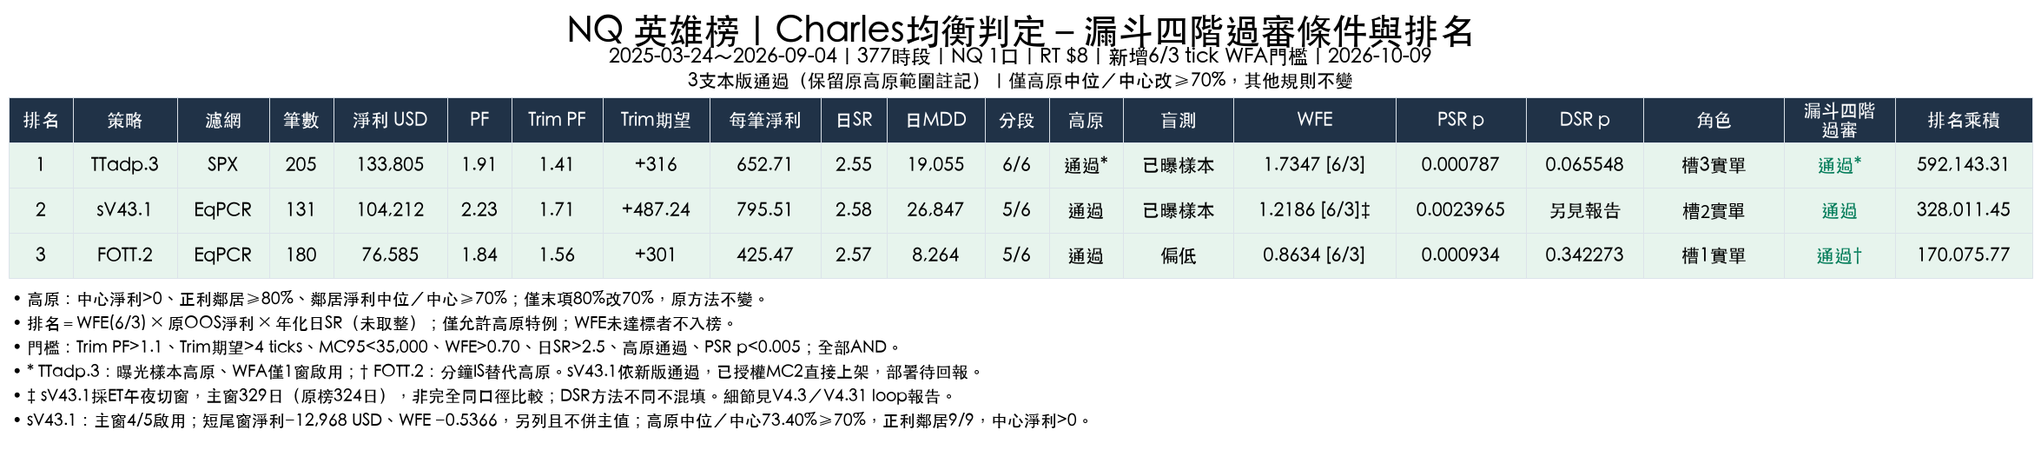
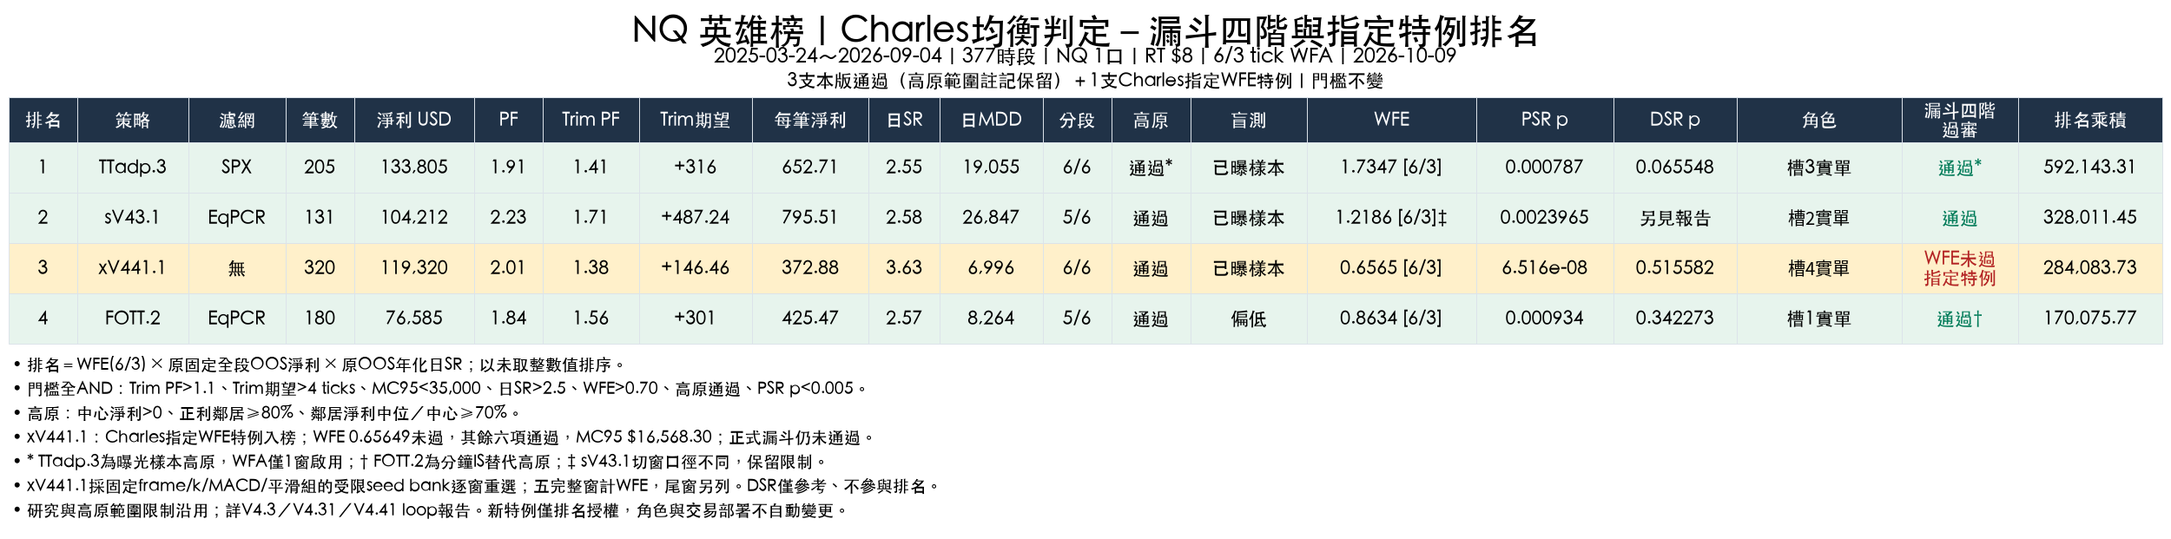
update 2026-10-09_1154

diff --git a/index.html b/index.html
@@ -1,19 +1,20 @@
 <!doctype html><html lang="zh-Hant"><head><meta charset="utf-8"><meta name="robots" content="noindex,nofollow"><meta name="viewport" content="width=device-width,initial-scale=1"><title>二部門盤後儀表板</title>
 <style>body{font-family:-apple-system,"Noto Sans TC",sans-serif;margin:12px;background:#0f1115;color:#e6e6e6}h1{font-size:18px}h2{font-size:15px;margin-top:22px}table{border-collapse:collapse;font-size:13px}td,th{border:1px solid #333;padding:4px 6px;text-align:center}th{background:#1c1f26}.l{font-size:20px}.pos{color:#5fd07a}.neg{color:#ff6b6b}.note{font-size:12px;color:#999}.wrap{overflow-x:auto}</style></head><body>
-<h1>二部門盤後儀表板</h1><div class="note">更新 2026-10-09 06:49 台北｜只顯示、不自動動作｜交易日以 ET 18:00 切換</div><div class="note" style="margin:6px 0 10px"><a href="index.html" style="color:#4ea1ff">盤後儀表板</a>｜<a href="v33_top3.html" style="color:#4ea1ff">NQ 英雄榜</a></div>
-<style>.ovwrap{max-width:780px}.ovscroll{overflow-x:auto;-webkit-overflow-scrolling:touch;margin:4px 0 10px;border:1px solid #2a2f3a;border-radius:8px;background:#161a21}.ovtbl{border-collapse:collapse;width:100%;min-width:520px;font-size:13px}.ovtbl.ovwide{min-width:420px}.ovtbl.ovwide th:first-child,.ovtbl.ovwide td:first-child{position:sticky;left:0;background:#161a21;z-index:1}.ovtbl.ovwide thead th:first-child{z-index:2;background:#12151a}.ovtbl th,.ovtbl td{padding:6px 8px;border-bottom:1px solid #2a2f3a;vertical-align:top;text-align:left}.ovtbl th{color:#aaa;font-weight:600;white-space:nowrap;background:#12151a;position:sticky;top:0}.ovtbl td.num{text-align:right;white-space:nowrap;font-variant-numeric:tabular-nums}.ovtbl tr:last-child td{border-bottom:none}.ovm{color:#999;font-size:12px}.ovw{color:#e0a030;font-size:14px}.ovhold{color:#e0a030;font-size:12px;font-weight:600;margin:2px 0;border-left:3px solid #e0a030;padding-left:6px}@media(max-width:420px){.ovtbl{font-size:12px;min-width:480px}.ovtbl th,.ovtbl td{padding:5px 6px}}</style><div class="ovwrap"><h2>總覽 <span class="note">交易日 10-08（ET 18:00 切換）｜USD</span></h2><div style="border:1px solid #2a2f3a;border-radius:8px;padding:6px 10px;margin:4px 0 8px;background:#161a21"><div style="font-size:14px;">三支實單合計持倉上限 2 口：今日（10-09）最大 0 口</div><div class="note">擋單由 MC2 負責；此處只是盤後依成交檔核對（各實單策略依進出場時間與口數各自累計持倉後加總）。上限 2 口為三支實單共用（策略1 FOTT.2、策略2 sV43.1、策略3 TTadp.3；Charles 10/09 01:36 加 sV43.1）；換手前未平的已停用實單部位也計入。</div></div><div class="note">實單（門檻 2,000 ms）</div><div class="ovscroll"><table class="ovtbl ovwide"><tr><th>指標</th><th><b>策略1</b><div>FOTT.2</div><div class="ovm">實單</div></th><th><b>策略2</b><div>sV43.1</div><div class="ovm">實單</div></th><th><b>策略3</b><div>TTadp.3</div><div class="ovm">實單</div></th></tr><tr><th>燈</th><td>⚪</td><td title="無回測基準⚪">⚪</td><td>⚪</td></tr><tr><th>今日</th><td>—</td><td class="num"><span class="pos">+1,412</span></td><td>—</td></tr><tr><th>累計</th><td>—</td><td class="num"><span class="pos">+1,412</span></td><td>—</td></tr><tr><th>筆數</th><td>—</td><td class="num">1</td><td>—</td></tr><tr><th>勝率</th><td>—</td><td class="num">100.0%<div class="ovm">回測 —</div></td><td>—</td></tr><tr><th>滑點</th><td>—</td><td class="num"><span class="pos">+80</span></td><td>—</td></tr><tr><th>s2o 最新/均</th><td>—</td><td class="num">966 / 874 ms</td><td>—</td></tr><tr><th>o2f 最新/均</th><td>—</td><td class="num">604 / 667 ms</td><td>—</td></tr></table></div><div class="note">紙單</div><div class="ovscroll"><table class="ovtbl ovwide"><tr><th>指標</th><th><b>p策略2</b><div>SecBtoB.8adp</div><div class="ovm">紙單</div></th></tr><tr><th>燈</th><td title="無回測基準⚪">⚪</td></tr><tr><th>今日</th><td class="num"><span class="neg">-3,508</span></td></tr><tr><th>累計</th><td class="num"><span class="neg">-1,494</span></td></tr><tr><th>筆數</th><td class="num">13</td></tr><tr><th>勝率</th><td class="num">46.2%<div class="ovm">回測 —</div></td></tr><tr><th>與回測比</th><td class="num">—</td></tr></table></div><div class="note">勝率＝獲利筆數／平倉筆數；回測勝率與「與回測比」（實際每筆均損益 ÷ 回測每筆均損益）的回測值於建置時由 baseline/ 逐筆 OOS 計算（無逐筆檔則勝率 —）；未滿 30 筆為小樣本。滑點＝slippage_ticks×$5 加總，正值＝不利。s2o 門檻 2,000 ms。紙單無延遲欄。<a href="daily_summary.csv" style="color:#4ea1ff">每日彙總 CSV</a>（每日×策略：筆數、勝筆、淨損益、累計）。</div></div>
+<h1>二部門盤後儀表板</h1><div class="note">更新 2026-10-09 11:54 台北｜只顯示、不自動動作｜交易日以 ET 18:00 切換</div><div class="note" style="margin:6px 0 10px"><a href="index.html" style="color:#4ea1ff">盤後儀表板</a>｜<a href="v33_top3.html" style="color:#4ea1ff">NQ 英雄榜</a></div>
+<style>.ovwrap{max-width:780px}.ovscroll{overflow-x:auto;-webkit-overflow-scrolling:touch;margin:4px 0 10px;border:1px solid #2a2f3a;border-radius:8px;background:#161a21}.ovtbl{border-collapse:collapse;width:100%;min-width:520px;font-size:13px}.ovtbl.ovwide{min-width:420px}.ovtbl.ovwide th:first-child,.ovtbl.ovwide td:first-child{position:sticky;left:0;background:#161a21;z-index:1}.ovtbl.ovwide thead th:first-child{z-index:2;background:#12151a}.ovtbl th,.ovtbl td{padding:6px 8px;border-bottom:1px solid #2a2f3a;vertical-align:top;text-align:left}.ovtbl th{color:#aaa;font-weight:600;white-space:nowrap;background:#12151a;position:sticky;top:0}.ovtbl td.num{text-align:right;white-space:nowrap;font-variant-numeric:tabular-nums}.ovtbl tr:last-child td{border-bottom:none}.ovm{color:#999;font-size:12px}.ovw{color:#e0a030;font-size:14px}.ovhold{color:#e0a030;font-size:12px;font-weight:600;margin:2px 0;border-left:3px solid #e0a030;padding-left:6px}@media(max-width:420px){.ovtbl{font-size:12px;min-width:480px}.ovtbl th,.ovtbl td{padding:5px 6px}}</style><div class="ovwrap"><h2>總覽 <span class="note">交易日 10-09（ET 18:00 切換）｜USD</span></h2><div style="border:1px solid #2a2f3a;border-radius:8px;padding:6px 10px;margin:4px 0 8px;background:#161a21"><div style="font-size:14px;">四支實單合計持倉上限 2 口：今日（10-09）最大 0 口</div><div class="note">擋單由 MC2 負責；此處只是盤後依成交檔核對（各實單策略依進出場時間與口數各自累計持倉後加總）。上限 2 口為四支實單共用（策略1 FOTT.2、策略2 sV43.1、策略3 TTadp.3、策略4 xV441.1；Charles 10/09 11:53 加 xV441.1）；換手前未平的已停用實單部位也計入。</div></div><div class="note">實單（門檻 2,000 ms）</div><div class="ovscroll"><table class="ovtbl ovwide"><tr><th>指標</th><th><b>策略1</b><div>FOTT.2</div><div class="ovm">實單</div></th><th><b>策略2</b><div>sV43.1</div><div class="ovm">實單</div></th><th><b>策略3</b><div>TTadp.3</div><div class="ovm">實單</div></th><th><b>策略4</b><div>xV441.1</div><div class="ovm">實單</div></th></tr><tr><th>燈</th><td>⚪</td><td title="無回測基準⚪">⚪</td><td>⚪</td><td>⚪</td></tr><tr><th>今日</th><td>—</td><td class="num"><span class="pos">+0</span></td><td>—</td><td>—</td></tr><tr><th>累計</th><td>—</td><td class="num"><span class="pos">+1,412</span></td><td>—</td><td>—</td></tr><tr><th>筆數</th><td>—</td><td class="num">1</td><td>—</td><td>—</td></tr><tr><th>勝率</th><td>—</td><td class="num">100.0%<div class="ovm">回測 —</div></td><td>—</td><td>—</td></tr><tr><th>滑點</th><td>—</td><td class="num"><span class="pos">+80</span></td><td>—</td><td>—</td></tr><tr><th>s2o 最新/均</th><td>—</td><td class="num">966 / 874 ms</td><td>—</td><td>—</td></tr><tr><th>o2f 最新/均</th><td>—</td><td class="num">604 / 667 ms</td><td>—</td><td>—</td></tr></table></div><div class="note">紙單</div><div class="ovscroll"><table class="ovtbl ovwide"><tr><th>指標</th><th><b>p策略2</b><div>SecBtoB.8adp</div><div class="ovm">紙單</div></th></tr><tr><th>燈</th><td title="無回測基準⚪">⚪</td></tr><tr><th>今日</th><td class="num"><span class="neg">-734</span></td></tr><tr><th>累計</th><td class="num"><span class="neg">-2,228</span></td></tr><tr><th>筆數</th><td class="num">16</td></tr><tr><th>勝率</th><td class="num">43.8%<div class="ovm">回測 —</div></td></tr><tr><th>與回測比</th><td class="num">—</td></tr></table></div><div class="note">勝率＝獲利筆數／平倉筆數；回測勝率與「與回測比」（實際每筆均損益 ÷ 回測每筆均損益）的回測值於建置時由 baseline/ 逐筆 OOS 計算（無逐筆檔則勝率 —）；未滿 30 筆為小樣本。滑點＝slippage_ticks×$5 加總，正值＝不利。s2o 門檻 2,000 ms。紙單無延遲欄。<a href="daily_summary.csv" style="color:#4ea1ff">每日彙總 CSV</a>（每日×策略：筆數、勝筆、淨損益、累計）。</div></div>
 <div class="note">上線日不固定：以 MC2 回傳該策略第一筆 webhook 資料的交易日為準，未有資料前顯示「等待首筆 webhook」。紙單損益用 sim_pnl_usd（依每列 trade_mode）。新策略下單延遲門檻 2 秒；燈號基準為 2 秒延遲版 tick OOS。已停用策略只保留歷史、不列燈號警示。</div>
-<h2>策略頻率 <span class="note">NQ 18 支候選總表＋現行實單（10/08 23:12 換手版）</span></h2><div class="wrap ft" style="overflow-x:auto"><style>.ft table{font-size:12px}.ft th,.ft td{white-space:nowrap;padding:2px 5px;line-height:1.25}</style><table><tr><th>策略／位置</th><th>回測筆</th><th>日均</th><th>週均</th><th>週期望淨利</th><th>週Trim期望</th><th>交易天</th><th>實際 vs 預期</th></tr><tr><th style="text-align:left">FOTT.2<br><span class="note" style="font-weight:400">策略1 實單</span></th><td>180</td><td>0.48</td><td>2.4</td><td>1,016</td><td>+719</td><td>116</td><td style="text-align:left">等待首筆 webhook</td></tr><tr><th style="text-align:left">sV43.1<br><span class="note" style="font-weight:400">策略2 實單</span></th><td>131</td><td>0.35</td><td>1.7</td><td>1,382</td><td>+847</td><td>—</td><td style="text-align:left">上線 2 工作日共 1 筆，折合每週 2.5（預期 1.7）；本週 1 筆</td></tr><tr><th style="text-align:left">TTadp.3<br><span class="note" style="font-weight:400">策略3 實單</span></th><td>205</td><td>0.54</td><td>2.7</td><td>1,775</td><td>+859</td><td>—</td><td style="text-align:left">等待首筆 webhook</td></tr><tr><th style="text-align:left">SecBtoB.8adp<br><span class="note" style="font-weight:400">p2 紙單</span></th><td>9,392</td><td>24.91</td><td>124.6</td><td>—</td><td>—</td><td>—</td><td style="text-align:left">上線 3 工作日共 14 筆，折合每週 23.3（預期 124.6）；本週 14 筆</td></tr><tr><th style="text-align:left">TOTT.1<br><span class="note" style="font-weight:400">下架</span></th><td>240</td><td>0.64</td><td>3.2</td><td>—</td><td>—</td><td>189</td><td style="text-align:left">已下架</td></tr><tr><th style="text-align:left">ADPTTF.3<br><span class="note" style="font-weight:400">下架</span></th><td>412</td><td>1.09</td><td>5.5</td><td>—</td><td>—</td><td>—</td><td style="text-align:left">已下架</td></tr><tr><th style="text-align:left">BigA.ADP<br><span class="note" style="font-weight:400">下架</span></th><td>4,180</td><td>11.09</td><td>55.4</td><td>—</td><td>—</td><td>—</td><td style="text-align:left">已下架</td></tr><tr><th style="text-align:left">ADPTTFH.13<br><span class="note" style="font-weight:400">下架</span></th><td>300</td><td>0.80</td><td>4.0</td><td>—</td><td>—</td><td>—</td><td style="text-align:left">已下架</td></tr><tr><th style="text-align:left">TTadp.1<br><span class="note" style="font-weight:400">下架</span></th><td>515</td><td>1.37</td><td>6.8</td><td>—</td><td>—</td><td>—</td><td style="text-align:left">已下架</td></tr></table></div>
-<div class="note">口徑：OOS 2025-03-24～2026-09-04，377 個交易日；1 筆交易＝1 次進場訊號；每日平均＝筆數 ÷ 377，每週＝每日×5。有逐筆 OOS 檔者筆數取該檔（另列有交易天數），其餘取排名圖筆數推算。目前三支實單合計約每週 6.8 筆；非每天都有交易，連幾天無訊號屬正常。「實際 vs 預期」自該策略首筆 webhook 起算。每週期望淨利＝每週平均次數 × 每筆淨利；每週 Trim 期望＝每週平均次數 × Trim 期望（每筆淨利、Trim 期望取自 NQ 18 支候選總表；只列實單 FOTT.2／sV43.1／TTadp.3，其餘為「—」；單位 USD）。</div>
+<h2>策略頻率 <span class="note">NQ 18 支候選總表＋現行實單（10/08 23:12 換手版）</span></h2><div class="wrap ft" style="overflow-x:auto"><style>.ft table{font-size:12px}.ft th,.ft td{white-space:nowrap;padding:2px 5px;line-height:1.25}</style><table><tr><th>策略／位置</th><th>回測筆</th><th>日均</th><th>週均</th><th>週期望淨利</th><th>週Trim期望</th><th>交易天</th><th>實際 vs 預期</th></tr><tr><th style="text-align:left">FOTT.2<br><span class="note" style="font-weight:400">策略1 實單</span></th><td>180</td><td>0.48</td><td>2.4</td><td>1,016</td><td>+719</td><td>116</td><td style="text-align:left">等待首筆 webhook</td></tr><tr><th style="text-align:left">sV43.1<br><span class="note" style="font-weight:400">策略2 實單</span></th><td>131</td><td>0.35</td><td>1.7</td><td>1,382</td><td>+847</td><td>—</td><td style="text-align:left">上線 2 工作日共 1 筆，折合每週 2.5（預期 1.7）；本週 1 筆</td></tr><tr><th style="text-align:left">TTadp.3<br><span class="note" style="font-weight:400">策略3 實單</span></th><td>205</td><td>0.54</td><td>2.7</td><td>1,775</td><td>+859</td><td>—</td><td style="text-align:left">等待首筆 webhook</td></tr><tr><th style="text-align:left">xV441.1<br><span class="note" style="font-weight:400">策略4 實單</span></th><td>320</td><td>0.85</td><td>4.2</td><td>1,583</td><td>+622</td><td>—</td><td style="text-align:left">等待首筆 webhook</td></tr><tr><th style="text-align:left">SecBtoB.8adp<br><span class="note" style="font-weight:400">p2 紙單</span></th><td>9,392</td><td>24.91</td><td>124.6</td><td>—</td><td>—</td><td>—</td><td style="text-align:left">上線 3 工作日共 17 筆，折合每週 28.3（預期 124.6）；本週 17 筆</td></tr><tr><th style="text-align:left">TOTT.1<br><span class="note" style="font-weight:400">下架</span></th><td>240</td><td>0.64</td><td>3.2</td><td>—</td><td>—</td><td>189</td><td style="text-align:left">已下架</td></tr><tr><th style="text-align:left">ADPTTF.3<br><span class="note" style="font-weight:400">下架</span></th><td>412</td><td>1.09</td><td>5.5</td><td>—</td><td>—</td><td>—</td><td style="text-align:left">已下架</td></tr><tr><th style="text-align:left">BigA.ADP<br><span class="note" style="font-weight:400">下架</span></th><td>4,180</td><td>11.09</td><td>55.4</td><td>—</td><td>—</td><td>—</td><td style="text-align:left">已下架</td></tr><tr><th style="text-align:left">ADPTTFH.13<br><span class="note" style="font-weight:400">下架</span></th><td>300</td><td>0.80</td><td>4.0</td><td>—</td><td>—</td><td>—</td><td style="text-align:left">已下架</td></tr><tr><th style="text-align:left">TTadp.1<br><span class="note" style="font-weight:400">下架</span></th><td>515</td><td>1.37</td><td>6.8</td><td>—</td><td>—</td><td>—</td><td style="text-align:left">已下架</td></tr></table></div>
+<div class="note">口徑：OOS 2025-03-24～2026-09-04，377 個交易日；1 筆交易＝1 次進場訊號；每日平均＝筆數 ÷ 377，每週＝每日×5。有逐筆 OOS 檔者筆數取該檔（另列有交易天數），其餘取排名圖筆數推算。目前四支實單合計約每週 11.1 筆；非每天都有交易，連幾天無訊號屬正常。「實際 vs 預期」自該策略首筆 webhook 起算。每週期望淨利＝每週平均次數 × 每筆淨利；每週 Trim 期望＝每週平均次數 × Trim 期望（每筆淨利、Trim 期望取自 NQ 18 支候選總表；只列實單 FOTT.2／sV43.1／TTadp.3／xV441.1，其餘為「—」；單位 USD）。</div>
 <style>.vt{overflow:auto;max-height:75vh;border:1px solid #333;max-width:100%}.vt table{font-size:12px}.vt th,.vt td{padding:3px 5px;white-space:nowrap}.vt thead th{position:sticky;top:0;z-index:2;background:#1c1f26;font-weight:600}.vt .dc{position:sticky;left:0;z-index:1;background:#1c1f26}.vt thead .dc{z-index:3}.vt .nt{color:#555}.l2{font-size:15px}.hold{color:#e0a030;font-size:11px}.vtr{opacity:.6}details summary{cursor:pointer;color:#aaa;font-size:13px;margin:8px 0}</style>
-<h2>每日燈號變化 <span class="note">近 9 個交易日（上限 60）・最新在上</span></h2><div class="vt"><table><thead><tr><th class="dc">交易日</th><th>實單<br>FOTT.2<div class="note">策略1</div></th><th>實單<br>sV43.1<div class="note">策略2</div></th><th>實單<br>TTadp.3<div class="note">策略3</div></th><th>紙單<br>p2 SecBtoB.8adp<div class="note">p策略2</div></th></tr></thead><tbody><tr><th class="dc">10-08<span class="note">（四）</span></th><td class="nt">·</td><td title="無回測基準⚪"><span class="l2">⚪</span><br><span class="pos">+1,412</span></td><td class="nt">·</td><td title="無回測基準⚪"><span class="l2">⚪</span><br><span class="neg">-3,508</span></td></tr><tr><th class="dc">10-07<span class="note">（三）</span></th><td class="nt">·</td><td class="nt">·</td><td class="nt">·</td><td title="無回測基準⚪"><span class="l2">⚪</span><br><span class="pos">+2,014</span></td></tr><tr><th class="dc">10-06<span class="note">（二）</span></th><td class="nt">·</td><td class="nt">·</td><td class="nt">·</td><td class="nt">·</td></tr><tr><th class="dc">10-05<span class="note">（一）</span></th><td class="nt">·</td><td class="nt">·</td><td class="nt">·</td><td class="nt">·</td></tr><tr><th class="dc">10-02<span class="note">（五）</span></th><td class="nt">·</td><td class="nt">·</td><td class="nt">·</td><td class="nt">·</td></tr><tr><th class="dc">10-01<span class="note">（四）</span></th><td class="nt">·</td><td class="nt">·</td><td class="nt">·</td><td class="nt">·</td></tr><tr><th class="dc">09-30<span class="note">（三）</span></th><td class="nt">·</td><td class="nt">·</td><td class="nt">·</td><td class="nt">·</td></tr><tr><th class="dc">09-29<span class="note">（二）</span></th><td class="nt">·</td><td class="nt">·</td><td class="nt">·</td><td class="nt">·</td></tr><tr><th class="dc">09-28<span class="note">（一）</span></th><td class="nt">·</td><td class="nt">·</td><td class="nt">·</td><td class="nt">·</td></tr></tbody></table></div>
+<h2>每日燈號變化 <span class="note">近 10 個交易日（上限 60）・最新在上</span></h2><div class="vt"><table><thead><tr><th class="dc">交易日</th><th>實單<br>FOTT.2<div class="note">策略1</div></th><th>實單<br>sV43.1<div class="note">策略2</div></th><th>實單<br>TTadp.3<div class="note">策略3</div></th><th>實單<br>xV441.1<div class="note">策略4</div></th><th>紙單<br>p2 SecBtoB.8adp<div class="note">p策略2</div></th></tr></thead><tbody><tr><th class="dc">10-09<span class="note">（五）</span></th><td class="nt">·</td><td class="nt">·</td><td class="nt">·</td><td class="nt">·</td><td title="無回測基準⚪"><span class="l2">⚪</span><br><span class="neg">-734</span></td></tr><tr><th class="dc">10-08<span class="note">（四）</span></th><td class="nt">·</td><td title="無回測基準⚪"><span class="l2">⚪</span><br><span class="pos">+1,412</span></td><td class="nt">·</td><td class="nt">·</td><td title="無回測基準⚪"><span class="l2">⚪</span><br><span class="neg">-3,508</span></td></tr><tr><th class="dc">10-07<span class="note">（三）</span></th><td class="nt">·</td><td class="nt">·</td><td class="nt">·</td><td class="nt">·</td><td title="無回測基準⚪"><span class="l2">⚪</span><br><span class="pos">+2,014</span></td></tr><tr><th class="dc">10-06<span class="note">（二）</span></th><td class="nt">·</td><td class="nt">·</td><td class="nt">·</td><td class="nt">·</td><td class="nt">·</td></tr><tr><th class="dc">10-05<span class="note">（一）</span></th><td class="nt">·</td><td class="nt">·</td><td class="nt">·</td><td class="nt">·</td><td class="nt">·</td></tr><tr><th class="dc">10-02<span class="note">（五）</span></th><td class="nt">·</td><td class="nt">·</td><td class="nt">·</td><td class="nt">·</td><td class="nt">·</td></tr><tr><th class="dc">10-01<span class="note">（四）</span></th><td class="nt">·</td><td class="nt">·</td><td class="nt">·</td><td class="nt">·</td><td class="nt">·</td></tr><tr><th class="dc">09-30<span class="note">（三）</span></th><td class="nt">·</td><td class="nt">·</td><td class="nt">·</td><td class="nt">·</td><td class="nt">·</td></tr><tr><th class="dc">09-29<span class="note">（二）</span></th><td class="nt">·</td><td class="nt">·</td><td class="nt">·</td><td class="nt">·</td><td class="nt">·</td></tr><tr><th class="dc">09-28<span class="note">（一）</span></th><td class="nt">·</td><td class="nt">·</td><td class="nt">·</td><td class="nt">·</td><td class="nt">·</td></tr></tbody></table></div>
 <div class="note">格內：燈號＋當日損益 USD；「·」＝當日無平倉。燈號取各子項最差者；對照各自 tick OOS 回測分佈（綠 ≥p10、黃 p5–p10、橘 p1–p5、紅 &lt;p1）。⚪＝樣本不足（未滿 20 日/30 趟）。K01 回測本身為負，改用「近60趟期望 &gt;0」。</div>
-<style>.lg{display:flex;flex-wrap:wrap;gap:4px 14px;font-size:12px;margin:4px 0}.lgi{white-space:normal}</style><h2>六策略累計損益 <span class="note">USD・實單與紙單分開、不加總</span></h2><h3 style="font-size:14px;margin:12px 0 4px">實單（實線）</h3><svg viewBox="0 0 640 220" style="width:100%;max-width:640px;background:#161a21;display:block" role="img" aria-label="實單（實線）"><line x1="46" x2="628" y1="185.2" y2="185.2" stroke="#555" stroke-dasharray="3"/><text x="42" y="22" fill="#888" font-size="11" text-anchor="end">1,525</text><text x="42" y="198" fill="#888" font-size="11" text-anchor="end">-113</text><text x="42" y="189" fill="#888" font-size="11" text-anchor="end">0</text><text x="337" y="214" fill="#888" font-size="11" text-anchor="middle">10-08</text><polyline fill="none" stroke="#4ea1ff" stroke-width="2.2" points="337.0,24.8"/><circle cx="337.0" cy="24.8" r="2.5" fill="#4ea1ff"/></svg><div class="lg"><span class="lgi"><svg width="22" height="8"><line x1="0" x2="22" y1="4" y2="4" stroke="#3ddbd9" stroke-width="2.5"/></svg> 實單 FOTT.2：等待首筆</span><span class="lgi"><svg width="22" height="8"><line x1="0" x2="22" y1="4" y2="4" stroke="#4ea1ff" stroke-width="2.5"/></svg> 實單 sV43.1：+1,412；無逐筆回測基準，不畫預期線</span><span class="lgi"><svg width="22" height="8"><line x1="0" x2="22" y1="4" y2="4" stroke="#e0a030" stroke-width="2.5"/></svg> 實單 TTadp.3：等待首筆</span></div><h3 style="font-size:14px;margin:12px 0 4px">紙單（虛線，模擬損益）</h3><svg viewBox="0 0 640 220" style="width:100%;max-width:640px;background:#161a21;display:block" role="img" aria-label="紙單（虛線，模擬損益）"><line x1="46" x2="628" y1="116.9" y2="116.9" stroke="#555" stroke-dasharray="3"/><text x="42" y="22" fill="#888" font-size="11" text-anchor="end">2,295</text><text x="42" y="198" fill="#888" font-size="11" text-anchor="end">-1,775</text><text x="42" y="121" fill="#888" font-size="11" text-anchor="end">0</text><text x="46" y="214" fill="#888" font-size="11">10-07</text><text x="628" y="214" fill="#888" font-size="11" text-anchor="end">10-08</text><polyline fill="none" stroke="#3ddbd9" stroke-width="2.2" stroke-dasharray="6,3" points="46.0,24.8 628.0,185.2"/><circle cx="46.0" cy="24.8" r="2.5" fill="#3ddbd9"/><circle cx="628.0" cy="185.2" r="2.5" fill="#3ddbd9"/></svg><div class="lg"><span class="lgi"><svg width="22" height="8"><line x1="0" x2="22" y1="4" y2="4" stroke="#3ddbd9" stroke-width="2.5" stroke-dasharray="5,3"/></svg> 紙單 p2 SecBtoB.8adp：-1,494；無逐筆回測基準，不畫預期線</span></div><div class="note">淡色點線＝回測預期＝回測每筆平均淨損益 × 實際累計平倉筆數（無逐筆回測基準者略過，如 sV43.1、TTadp.3、SecBtoB.8adp）。紙單「⚠待查」者績效暫不計。</div>
+<style>.lg{display:flex;flex-wrap:wrap;gap:4px 14px;font-size:12px;margin:4px 0}.lgi{white-space:normal}</style><h2>六策略累計損益 <span class="note">USD・實單與紙單分開、不加總</span></h2><h3 style="font-size:14px;margin:12px 0 4px">實單（實線）</h3><svg viewBox="0 0 640 220" style="width:100%;max-width:640px;background:#161a21;display:block" role="img" aria-label="實單（實線）"><line x1="46" x2="628" y1="185.2" y2="185.2" stroke="#555" stroke-dasharray="3"/><text x="42" y="22" fill="#888" font-size="11" text-anchor="end">1,525</text><text x="42" y="198" fill="#888" font-size="11" text-anchor="end">-113</text><text x="42" y="189" fill="#888" font-size="11" text-anchor="end">0</text><text x="46" y="214" fill="#888" font-size="11">10-08</text><text x="628" y="214" fill="#888" font-size="11" text-anchor="end">10-09</text><polyline fill="none" stroke="#4ea1ff" stroke-width="2.2" points="46.0,24.8 628.0,24.8"/><circle cx="46.0" cy="24.8" r="2.5" fill="#4ea1ff"/><circle cx="628.0" cy="24.8" r="2.5" fill="#4ea1ff"/></svg><div class="lg"><span class="lgi"><svg width="22" height="8"><line x1="0" x2="22" y1="4" y2="4" stroke="#3ddbd9" stroke-width="2.5"/></svg> 實單 FOTT.2：等待首筆</span><span class="lgi"><svg width="22" height="8"><line x1="0" x2="22" y1="4" y2="4" stroke="#4ea1ff" stroke-width="2.5"/></svg> 實單 sV43.1：+1,412；無逐筆回測基準，不畫預期線</span><span class="lgi"><svg width="22" height="8"><line x1="0" x2="22" y1="4" y2="4" stroke="#e0a030" stroke-width="2.5"/></svg> 實單 TTadp.3：等待首筆</span><span class="lgi"><svg width="22" height="8"><line x1="0" x2="22" y1="4" y2="4" stroke="#ff7eb6" stroke-width="2.5"/></svg> 實單 xV441.1：等待首筆</span></div><h3 style="font-size:14px;margin:12px 0 4px">紙單（虛線，模擬損益）</h3><svg viewBox="0 0 640 220" style="width:100%;max-width:640px;background:#161a21;display:block" role="img" aria-label="紙單（虛線，模擬損益）"><line x1="46" x2="628" y1="101.0" y2="101.0" stroke="#555" stroke-dasharray="3"/><text x="42" y="22" fill="#888" font-size="11" text-anchor="end">2,353</text><text x="42" y="198" fill="#888" font-size="11" text-anchor="end">-2,567</text><text x="42" y="105" fill="#888" font-size="11" text-anchor="end">0</text><text x="46" y="214" fill="#888" font-size="11">10-07</text><text x="628" y="214" fill="#888" font-size="11" text-anchor="end">10-09</text><polyline fill="none" stroke="#3ddbd9" stroke-width="2.2" stroke-dasharray="6,3" points="46.0,24.8 337.0,157.4 628.0,185.2"/><circle cx="46.0" cy="24.8" r="2.5" fill="#3ddbd9"/><circle cx="337.0" cy="157.4" r="2.5" fill="#3ddbd9"/><circle cx="628.0" cy="185.2" r="2.5" fill="#3ddbd9"/></svg><div class="lg"><span class="lgi"><svg width="22" height="8"><line x1="0" x2="22" y1="4" y2="4" stroke="#3ddbd9" stroke-width="2.5" stroke-dasharray="5,3"/></svg> 紙單 p2 SecBtoB.8adp：-2,228；無逐筆回測基準，不畫預期線</span></div><div class="note">淡色點線＝回測預期＝回測每筆平均淨損益 × 實際累計平倉筆數（無逐筆回測基準者略過，如 sV43.1、TTadp.3、xV441.1、SecBtoB.8adp）。紙單「⚠待查」者績效暫不計。</div>
 <h2>最新數值</h2><div class="wrap"><table><tr><th>策略</th><th>燈號</th><th>天/趟</th><th>累計淨</th><th>20日SR</th><th>60日SR</th><th>近30趟</th><th>近60趟</th><th>回撤/MC95</th><th>實/模比<br>(假設40%)</th><th>滑價/趟</th></tr>
 <tr><th>FOTT.2 <span class="ovm">實單</span></th><td colspan="10">等待首筆 webhook</td></tr>
-<tr><th>sV43.1 <span class="ovm">實單</span></th><td class="l">⚪</td><td>1/1</td><td class="pos">+1,412</td><td>— </td><td>— </td><td>— </td><td>— </td><td>0 (—)</td><td>95%</td><td>80</td></tr>
+<tr><th>sV43.1 <span class="ovm">實單</span></th><td class="l">⚪</td><td>2/1</td><td class="pos">+1,412</td><td>— </td><td>— </td><td>— </td><td>— </td><td>0 (—)</td><td>95%</td><td>80</td></tr>
 <tr><th>TTadp.3 <span class="ovm">實單</span></th><td colspan="10">等待首筆 webhook</td></tr>
-<tr><th>p策略2 SecBtoB.8adp <span class="ovm">紙單</span></th><td class="l">⚪</td><td>2/13</td><td class="neg">-1,494</td><td>— </td><td>— </td><td>— </td><td>— </td><td>3,508 (—)</td><td>—（紙單）</td><td>0</td></tr>
+<tr><th>xV441.1 <span class="ovm">實單</span></th><td colspan="10">等待首筆 webhook</td></tr>
+<tr><th>p策略2 SecBtoB.8adp <span class="ovm">紙單</span></th><td class="l">⚪</td><td>3/16</td><td class="neg">-2,228</td><td>— </td><td>— </td><td>— </td><td>— </td><td>4,242 (—)</td><td>—（紙單）</td><td>0</td></tr>
 </table></div><div class="note">回測中位參考：FOTT.2 近30趟 +176、20日SR 3.23。滑價以每筆 slippage_ticks×$5 加總，正值＝對實單不利。只列現行 3 實＋3 紙。</div>
-<h2>換手歷程</h2><div class="note">現行 4 槽置頂；其下為換手事件（新→舊）。已停用歷史列已省略。</div><div class="ovscroll" style="max-width:780px"><table class="ovtbl"><tr><th>日期</th><th>槽位</th><th>異動（從→到／現行策略）</th><th>模式</th><th>狀態／備註</th></tr><tr style="background:#1a222c"><td>—</td><td>策略1</td><td style="text-align:left">FOTT.2</td><td>實單</td><td><b style="color:#3ddbd9">現行（等待首筆 webhook）</b></td></tr><tr style="background:#1a222c"><td>—</td><td>策略2</td><td style="text-align:left">sV43.1</td><td>實單</td><td><b style="color:#3ddbd9">現行（自 10-08 起）</b></td></tr><tr style="background:#1a222c"><td>—</td><td>策略3</td><td style="text-align:left">TTadp.3</td><td>實單</td><td><b style="color:#3ddbd9">現行（等待首筆 webhook）</b></td></tr><tr style="background:#1a222c"><td>—</td><td>p策略2</td><td style="text-align:left">SecBtoB.8adp</td><td>紙單</td><td><b style="color:#3ddbd9">現行（自 10-07 起）</b></td></tr><tr><td>10-08</td><td>策略1</td><td style="text-align:left">TTadp.1 實單（10/07 起，封存）→ FOTT.2 實單（由 p3 紙單移入）</td><td>—</td><td>已生效</td></tr><tr><td>10-08</td><td>策略2</td><td style="text-align:left">ADPTTF.3 實單（10/02 起，封存）→ 空槽</td><td>實單</td><td>已生效</td></tr><tr><td>10-08</td><td>策略4</td><td style="text-align:left">TOTT.1 實單（10/07 起，封存）→ 空槽</td><td>實單</td><td>已生效</td></tr><tr><td>10-08</td><td>p策略3</td><td style="text-align:left">FOTT.2 紙單（10/05 起，封存）→ 空槽（FOTT.2 改策略1 實單）</td><td>—</td><td>已生效</td></tr><tr><td>10-08</td><td>策略2</td><td style="text-align:left">空槽 → sV43.1 實單（MC2 直接上架，10/09 01:36 台北開啟）</td><td>實單</td><td>已生效</td></tr><tr><td>10-07</td><td>策略1</td><td style="text-align:left">SecBtoB.8adp 策一實單→p1 紙單（10/07）；策略1 改 TTadp.1 實單</td><td>—</td><td>已生效</td></tr><tr><td>10-07</td><td>策略3</td><td style="text-align:left">TOTT.1 實單（9/30 起，封存）→ TTadp.3 實單</td><td>實單</td><td>已生效</td></tr><tr><td>10-07</td><td>p策略一</td><td style="text-align:left">BigA.ADP 紙單（10/01 起，封存）→ SecBtoB.8adp 紙單（原策一實單，10/07 實轉紙）</td><td>—</td><td>已生效</td></tr><tr><td>10-07</td><td>策略4</td><td style="text-align:left">p策略一 改名策略4 → TOTT.1 實單</td><td>實單</td><td>已生效</td></tr><tr><td>10-07</td><td>p策略2</td><td style="text-align:left">SecBtoB.8adp 紙單 p1→p2（10/07）</td><td>紙單</td><td>已生效</td></tr><tr><td>10-07</td><td>p策略2</td><td style="text-align:left">ADPTTFH.13 紙單下架（10/02–10/07，封存）</td><td>紙單</td><td>已生效</td></tr><tr><td>10-05</td><td>策略1</td><td style="text-align:left">FOTT.2 實單（10/02 起，歷史保留）→ SecBtoB.8adp（sec.btob.8adp）實單</td><td>實單</td><td>已生效</td></tr><tr><td>10-05</td><td>p策略3</td><td style="text-align:left">SecBtoB.8adp 紙單（10/02 起，歷史保留）→ FOTT.2 紙單</td><td>紙單</td><td>已生效</td></tr><tr><td>10-02</td><td>策略1</td><td style="text-align:left">TTF.1 紙單（停用，歷史保留）→ FOTT.2 紙單</td><td>紙單</td><td>已生效</td></tr><tr><td>10-02</td><td>策略2</td><td style="text-align:left">FOTT.2 實單（9/30–10/01 歷史保留）→ SecBtoB.8adp 實單（新）</td><td>實單</td><td>已生效</td></tr><tr><td>10-02</td><td>p策略3</td><td style="text-align:left">K01 紙單（歷史保留，含 GM 待查註記）→ ADPTTF.3 紙單（新）</td><td>紙單</td><td>已生效</td></tr><tr><td>10-02</td><td>p策略一</td><td style="text-align:left">BigA 紙單（歷史保留，含待查註記）→ BigA.ADP 紙單（新，不同策略）</td><td>紙單</td><td>已生效</td></tr><tr><td>10-02</td><td>策略1</td><td style="text-align:left">FOTT.2 紙單（10/02 起，歷史保留）→ FOTT.2 實單</td><td>—</td><td>已生效</td></tr><tr><td>10-02</td><td>策略2</td><td style="text-align:left">SecBtoB.8adp 實單（歷史保留）→ ADPTTF.3 實單</td><td>實單</td><td>已生效</td></tr><tr><td>10-02</td><td>p策略2</td><td style="text-align:left">SecBtoB.8 紙單（歷史保留，含待查註記）→ ADPTTFH.13 紙單（新進榜）；p2 vs 策二對照封存</td><td>紙單</td><td>已生效</td></tr><tr><td>10-02</td><td>p策略3</td><td style="text-align:left">ADPTTF.3 紙單（歷史保留）→ SecBtoB.8adp紙單</td><td>紙單</td><td>已生效</td></tr><tr><td>10-02</td><td>策略1～3</td><td style="text-align:left">三實單 FOTT.2／ADPTTF.3／TOTT.1 共用兩口上限（MC2 擋單，儀表板盤後核對）</td><td>實單</td><td>已生效</td></tr><tr><td>10-01</td><td>p1～p3</td><td style="text-align:left">紙策略頁開跑：p1 BigA、p2 SecBtoB.8、p3 K01</td><td>—</td><td>已生效</td></tr><tr><td>09-30</td><td>策略1～3</td><td style="text-align:left">策略1 TTF.1 紙單；策略2 BigA→FOTT.2 實單；策略3 K01→TOTT.1 實單（Charles 09-30 21:26 確認）</td><td>—</td><td>已生效</td></tr></table></div>
+<h2>換手歷程</h2><div class="note">現行 5 槽置頂；其下為換手事件（新→舊）。已停用歷史列已省略。</div><div class="ovscroll" style="max-width:780px"><table class="ovtbl"><tr><th>日期</th><th>槽位</th><th>異動（從→到／現行策略）</th><th>模式</th><th>狀態／備註</th></tr><tr style="background:#1a222c"><td>—</td><td>策略1</td><td style="text-align:left">FOTT.2</td><td>實單</td><td><b style="color:#3ddbd9">現行（等待首筆 webhook）</b></td></tr><tr style="background:#1a222c"><td>—</td><td>策略2</td><td style="text-align:left">sV43.1</td><td>實單</td><td><b style="color:#3ddbd9">現行（自 10-08 起）</b></td></tr><tr style="background:#1a222c"><td>—</td><td>策略3</td><td style="text-align:left">TTadp.3</td><td>實單</td><td><b style="color:#3ddbd9">現行（等待首筆 webhook）</b></td></tr><tr style="background:#1a222c"><td>—</td><td>策略4</td><td style="text-align:left">xV441.1</td><td>實單</td><td><b style="color:#3ddbd9">現行（等待首筆 webhook）</b></td></tr><tr style="background:#1a222c"><td>—</td><td>p策略2</td><td style="text-align:left">SecBtoB.8adp</td><td>紙單</td><td><b style="color:#3ddbd9">現行（自 10-07 起）</b></td></tr><tr><td>10-09</td><td>策略4</td><td style="text-align:left">空槽 → xV441.1 實單（10/09 約 12:08 台北上線）</td><td>實單</td><td>已生效</td></tr><tr><td>10-08</td><td>策略1</td><td style="text-align:left">TTadp.1 實單（10/07 起，封存）→ FOTT.2 實單（由 p3 紙單移入）</td><td>—</td><td>已生效</td></tr><tr><td>10-08</td><td>策略2</td><td style="text-align:left">ADPTTF.3 實單（10/02 起，封存）→ 空槽</td><td>實單</td><td>已生效</td></tr><tr><td>10-08</td><td>策略4</td><td style="text-align:left">TOTT.1 實單（10/07 起，封存）→ 空槽</td><td>實單</td><td>已生效</td></tr><tr><td>10-08</td><td>p策略3</td><td style="text-align:left">FOTT.2 紙單（10/05 起，封存）→ 空槽（FOTT.2 改策略1 實單）</td><td>—</td><td>已生效</td></tr><tr><td>10-08</td><td>策略2</td><td style="text-align:left">空槽 → sV43.1 實單（MC2 直接上架，10/09 01:36 台北開啟）</td><td>實單</td><td>已生效</td></tr><tr><td>10-07</td><td>策略1</td><td style="text-align:left">SecBtoB.8adp 策一實單→p1 紙單（10/07）；策略1 改 TTadp.1 實單</td><td>—</td><td>已生效</td></tr><tr><td>10-07</td><td>策略3</td><td style="text-align:left">TOTT.1 實單（9/30 起，封存）→ TTadp.3 實單</td><td>實單</td><td>已生效</td></tr><tr><td>10-07</td><td>p策略一</td><td style="text-align:left">BigA.ADP 紙單（10/01 起，封存）→ SecBtoB.8adp 紙單（原策一實單，10/07 實轉紙）</td><td>—</td><td>已生效</td></tr><tr><td>10-07</td><td>策略4</td><td style="text-align:left">p策略一 改名策略4 → TOTT.1 實單</td><td>實單</td><td>已生效</td></tr><tr><td>10-07</td><td>p策略2</td><td style="text-align:left">SecBtoB.8adp 紙單 p1→p2（10/07）</td><td>紙單</td><td>已生效</td></tr><tr><td>10-07</td><td>p策略2</td><td style="text-align:left">ADPTTFH.13 紙單下架（10/02–10/07，封存）</td><td>紙單</td><td>已生效</td></tr><tr><td>10-05</td><td>策略1</td><td style="text-align:left">FOTT.2 實單（10/02 起，歷史保留）→ SecBtoB.8adp（sec.btob.8adp）實單</td><td>實單</td><td>已生效</td></tr><tr><td>10-05</td><td>p策略3</td><td style="text-align:left">SecBtoB.8adp 紙單（10/02 起，歷史保留）→ FOTT.2 紙單</td><td>紙單</td><td>已生效</td></tr><tr><td>10-02</td><td>策略1</td><td style="text-align:left">TTF.1 紙單（停用，歷史保留）→ FOTT.2 紙單</td><td>紙單</td><td>已生效</td></tr><tr><td>10-02</td><td>策略2</td><td style="text-align:left">FOTT.2 實單（9/30–10/01 歷史保留）→ SecBtoB.8adp 實單（新）</td><td>實單</td><td>已生效</td></tr><tr><td>10-02</td><td>p策略3</td><td style="text-align:left">K01 紙單（歷史保留，含 GM 待查註記）→ ADPTTF.3 紙單（新）</td><td>紙單</td><td>已生效</td></tr><tr><td>10-02</td><td>p策略一</td><td style="text-align:left">BigA 紙單（歷史保留，含待查註記）→ BigA.ADP 紙單（新，不同策略）</td><td>紙單</td><td>已生效</td></tr><tr><td>10-02</td><td>策略1</td><td style="text-align:left">FOTT.2 紙單（10/02 起，歷史保留）→ FOTT.2 實單</td><td>—</td><td>已生效</td></tr><tr><td>10-02</td><td>策略2</td><td style="text-align:left">SecBtoB.8adp 實單（歷史保留）→ ADPTTF.3 實單</td><td>實單</td><td>已生效</td></tr><tr><td>10-02</td><td>p策略2</td><td style="text-align:left">SecBtoB.8 紙單（歷史保留，含待查註記）→ ADPTTFH.13 紙單（新進榜）；p2 vs 策二對照封存</td><td>紙單</td><td>已生效</td></tr><tr><td>10-02</td><td>p策略3</td><td style="text-align:left">ADPTTF.3 紙單（歷史保留）→ SecBtoB.8adp紙單</td><td>紙單</td><td>已生效</td></tr><tr><td>10-02</td><td>策略1～3</td><td style="text-align:left">三實單 FOTT.2／ADPTTF.3／TOTT.1 共用兩口上限（MC2 擋單，儀表板盤後核對）</td><td>實單</td><td>已生效</td></tr><tr><td>10-01</td><td>p1～p3</td><td style="text-align:left">紙策略頁開跑：p1 BigA、p2 SecBtoB.8、p3 K01</td><td>—</td><td>已生效</td></tr><tr><td>09-30</td><td>策略1～3</td><td style="text-align:left">策略1 TTF.1 紙單；策略2 BigA→FOTT.2 實單；策略3 K01→TOTT.1 實單（Charles 09-30 21:26 確認）</td><td>—</td><td>已生效</td></tr></table></div>
 <div class="note">HMM 市場狀態：尚未接入（僅參考欄位，規劃中）。</div></body></html>

diff --git a/v33_top3.html b/v33_top3.html
@@ -2,6 +2,6 @@
 <style>body{font-family:-apple-system,"Noto Sans TC",sans-serif;margin:12px;background:#0f1115;color:#e6e6e6}h1{font-size:18px}.note{font-size:12px;color:#999}a{color:#4ea1ff}img{width:100%;max-width:1100px;height:auto;border-radius:6px;background:#fff}</style></head><body>
 <h1>NQ 英雄榜｜漏斗四階</h1>
 <div class="note" style="margin:6px 0 10px"><a href="index.html">盤後儀表板</a>｜<a href="v33_top3.html">NQ 英雄榜</a></div>
-<div class="note">NQ 英雄榜｜Charles均衡判定－漏斗四階過審條件與排名（OOS 2025-03-24～2026-09-04；2026-10-09 版）。角色欄：FOTT.2 槽1實單、sV43.1 槽2實單、TTadp.3 槽3實單。點圖可開原尺寸。</div>
-<a href="assets/hero_funnel.png?v=20261009a"><img src="assets/hero_funnel.png?v=20261009a" alt="NQ 英雄榜 漏斗四階過審條件與排名"></a>
+<div class="note">NQ 英雄榜｜Charles均衡判定－漏斗四階過審條件與排名（OOS 2025-03-24～2026-09-04；2026-10-09 版）。角色欄：FOTT.2 槽1實單、sV43.1 槽2實單、TTadp.3 槽3實單、xV441.1 槽4實單。點圖可開原尺寸。</div>
+<a href="assets/hero_funnel.png?v=20261009b"><img src="assets/hero_funnel.png?v=20261009b" alt="NQ 英雄榜 漏斗四階過審條件與排名"></a>
 </body></html>
